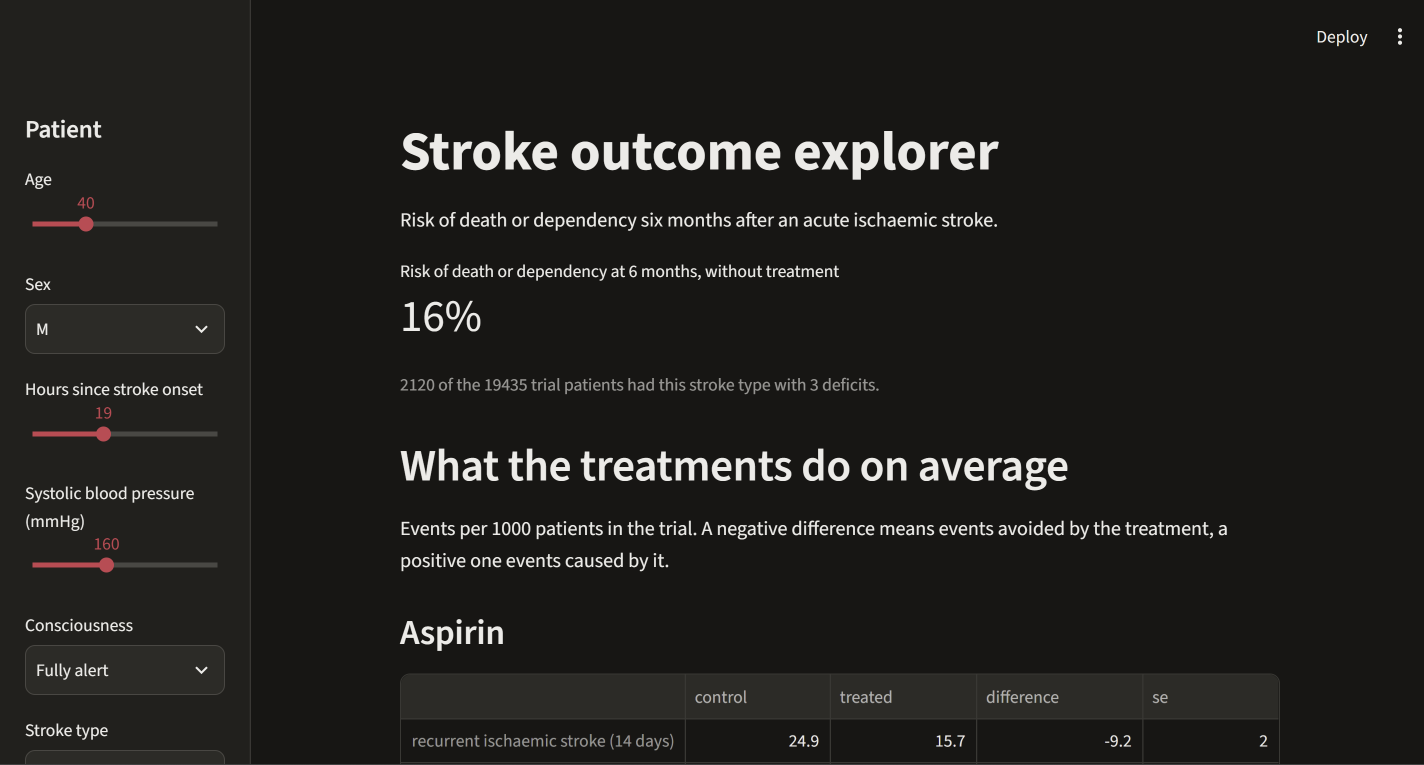
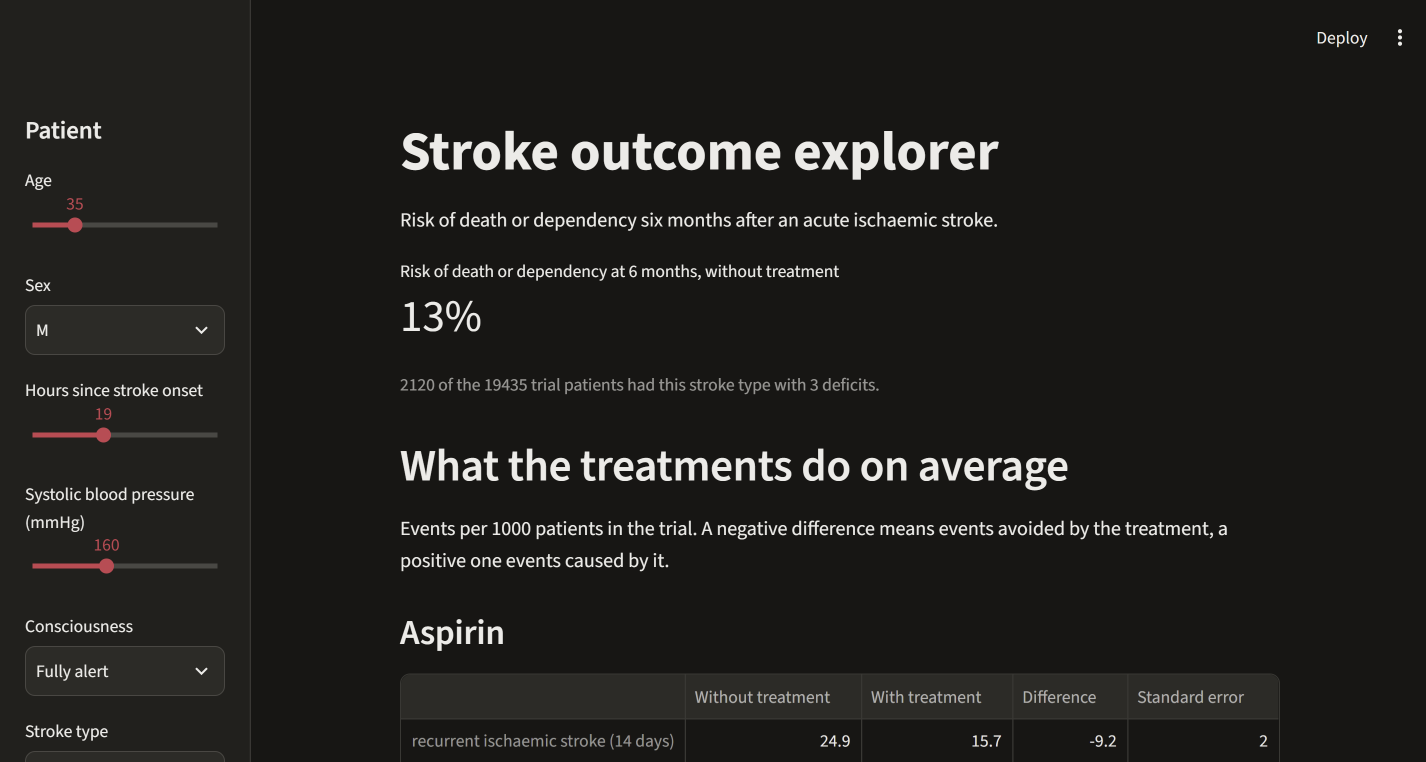
Use readable column names in the app tables

diff --git a/app.py b/app.py
@@ -109,6 +109,14 @@ st.write(
 )
 for treatment, name in (("RXASP", "Aspirin"), ("RXHEP", "Heparin")):
     effects = pd.read_csv(MODELS_DIR / f"effects_{treatment}.csv", index_col=0)
+    effects = effects.rename(
+        columns={
+            "control": "Without treatment",
+            "treated": "With treatment",
+            "difference": "Difference",
+            "se": "Standard error",
+        }
+    )
     st.subheader(name)
     st.dataframe(effects.round(1))
 
